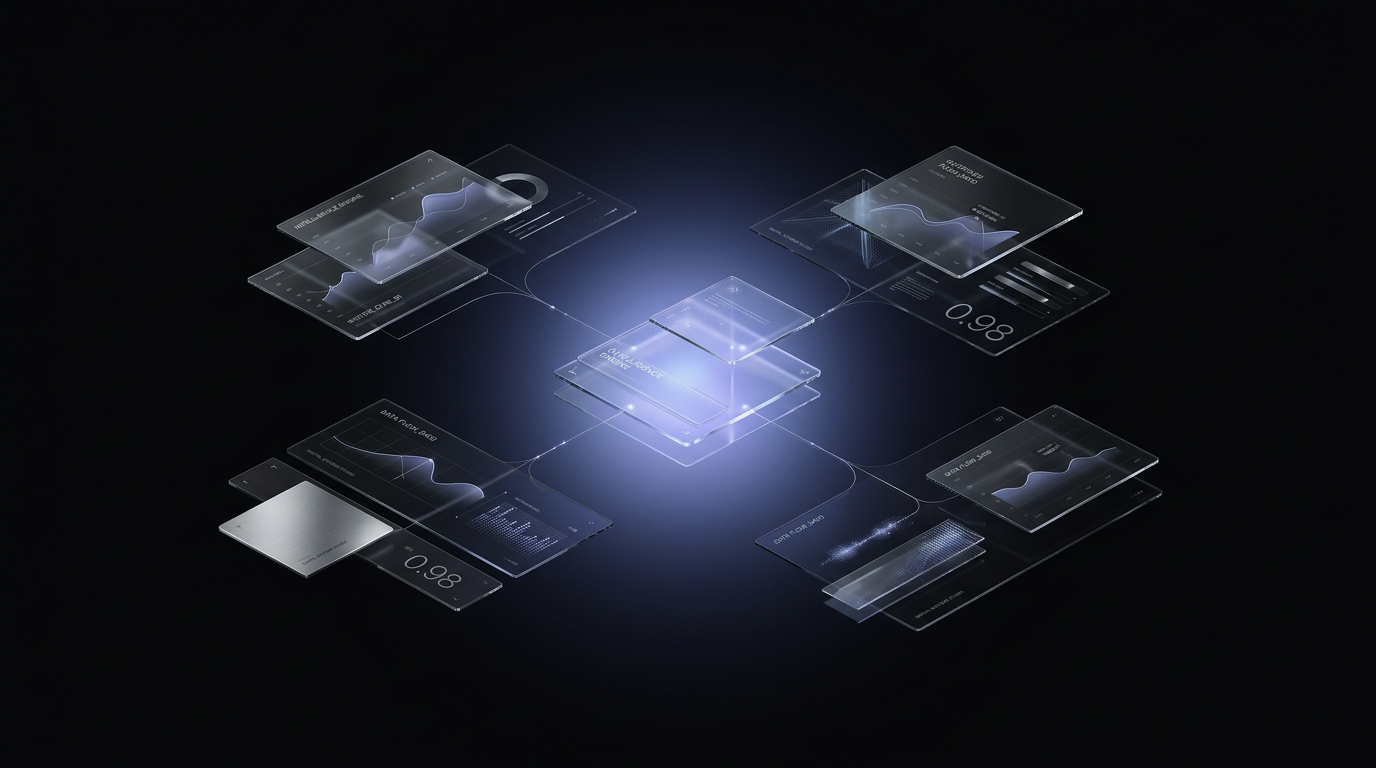
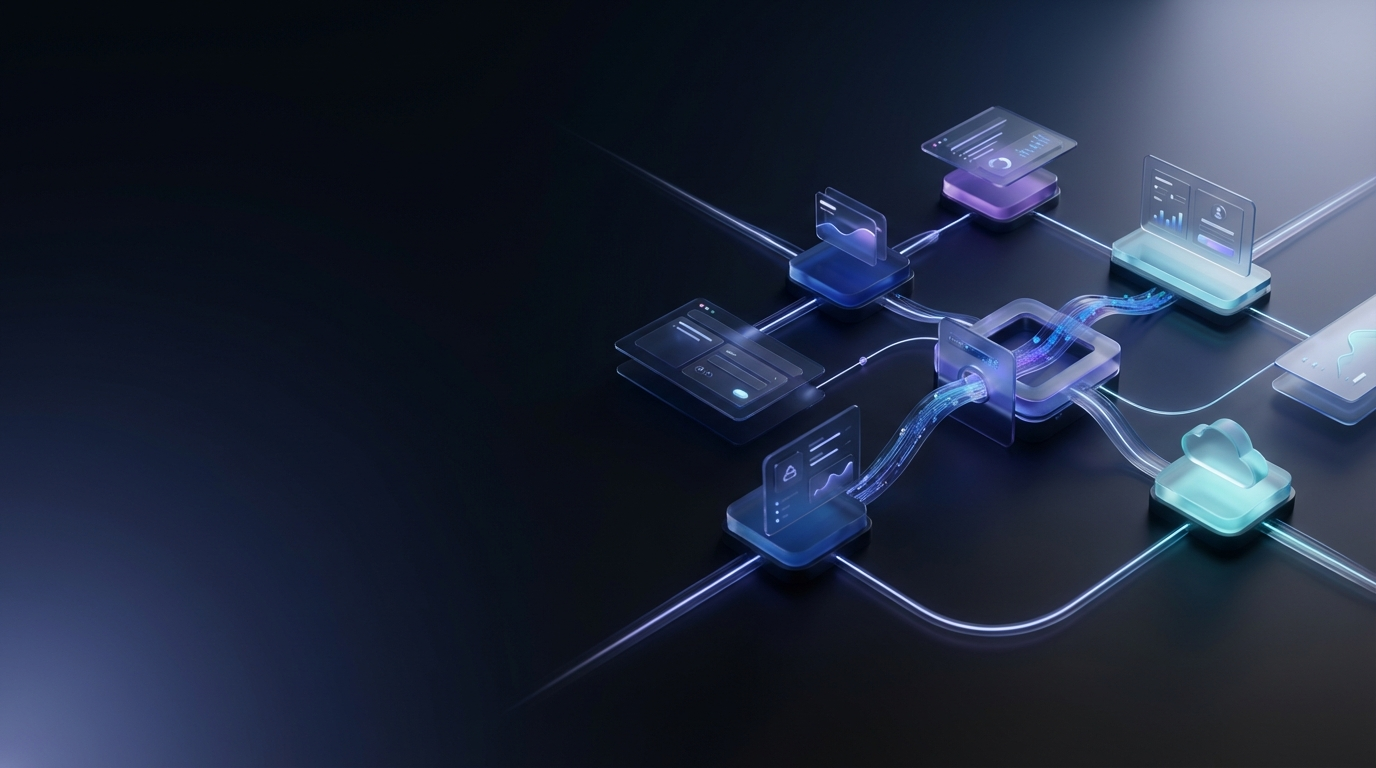
Add Nano Banana generated hero image with premium gradient overlay

diff --git a/src/App.jsx b/src/App.jsx
@@ -193,7 +193,7 @@ export default function App() {
               className="relative overflow-hidden rounded-[24px] border border-white/[0.08]">
               <img src="/ai-images/hero.png" alt="Digital systems visualization"
                 className="w-full h-[420px] object-cover object-center lg:h-[520px]" />
-              <div className="absolute inset-0 bg-gradient-to-t from-[#070809]/40 to-transparent" />
+              <div className="absolute inset-0" style={{background: 'linear-gradient(180deg, rgba(7,8,9,0.6) 0%, rgba(7,8,9,0.8) 60%, rgba(7,8,9,1) 100%)'}} />
             </motion.div>
           </div>
 
